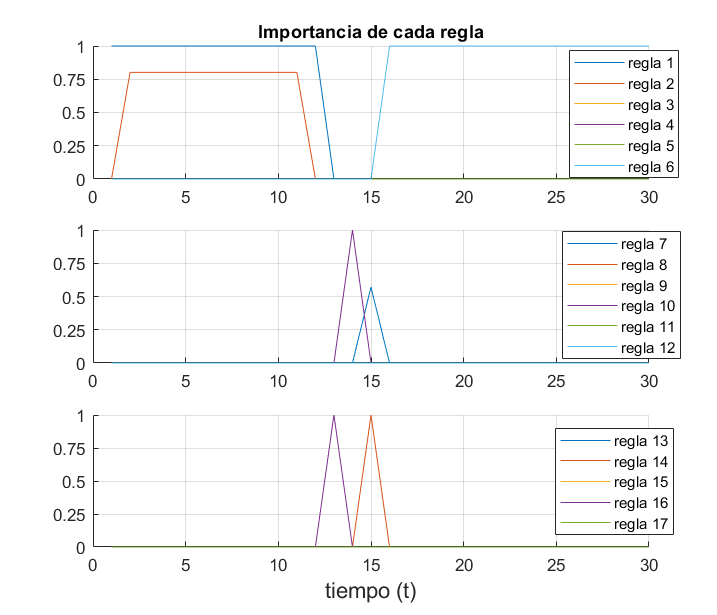
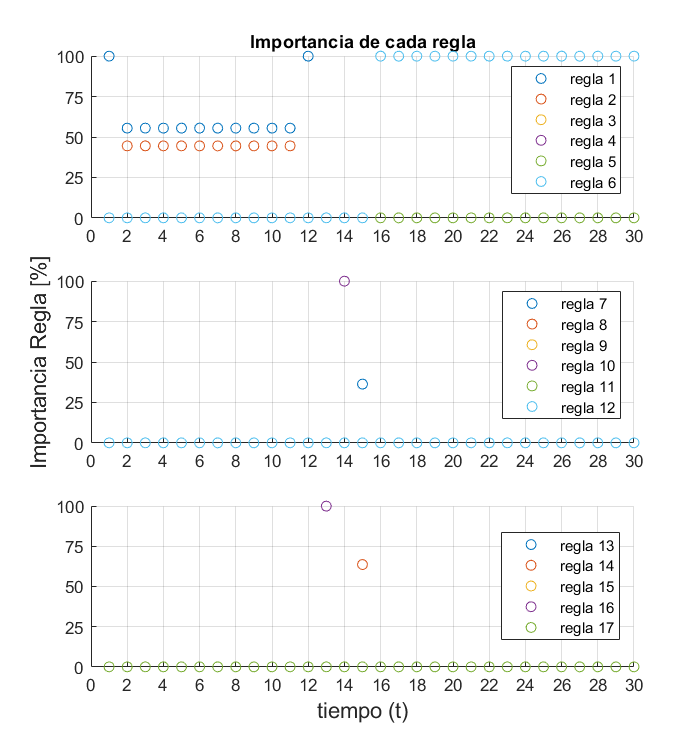
Modificación conjuntos difusos

diff --git a/funciones/inferencia2.m b/funciones/inferencia2.m
@@ -1,0 +1,47 @@
+function [output,reglas_activadas] = inferencia2(x1,x2)
+%% valores difusos
+ng = [-1.0 -1.0 -0.7 -0.55];
+nm = [-0.8 -0.65 -0.35 -0.1];
+np = [-0.4 -0.3 -0.2 -0.1];
+ni = [-0.2 -0.1 0.0 0.0];
+ce = [-0.25 0 0 0.25];
+pi = [0.0 0.0 0.1 0.2];
+pp = [0.1 0.2 0.3 0.4];
+pm = [0.1 0.35 0.65 0.8];
+pg = [0.55 0.7 1.0 1.0];
+
+%% de_a's
+ng_nm = de_a(ng,nm);
+ng_np = de_a(ng,np); 
+ng_pp = de_a(ng,pp);
+np_pi = de_a(np,pi);
+np_pg = de_a(np,pg);
+ni_pi = de_a(ni,pi);
+ni_pp = de_a(ni,pp);
+pp_pg = de_a(pp,pg);
+pm_pg = de_a(pm,pg);
+
+%% Conjunto de Reglas
+E1 =[ng; ng_nm; np; ni; ni; ni_pi; pi; pi; pp; pm_pg; pg; ni; ni; pi; ...
+    pi; ng_np; pp_pg]; %Error de presion (EP)
+E2 = [ng_pp; ng_np; np_pi; ng_nm; pm_pg; ce; ng_nm; pm_pg; ni_pp; pp_pg;...
+    np_pg; pp; np; np; pp; pm_pg; ng_nm]; %Tasa cambio Error de P (TP)
+S = [pg; pm; pm; pm; np; ce; pp; nm; nm; nm; ng; ce; pp; ce; np; pg; ng]; %Salida
+
+output=zeros(17,1000);
+reglas_activadas=zeros(1,17);
+%% Salidas
+for i=1:17
+    y1 = mu(x1,E1(i,:));
+    y2 = mu(x2,E2(i,:));
+    [~,y]= trapecio(S(i,:));
+    aux = min(y1,y2);
+    y = limitar(y,aux);
+    output(i,:) = y;
+    
+    if max(y) > 0
+        reglas_activadas(i) =+1;
+    end
+end
+end
+

diff --git a/funciones/graficar_reglas.m b/funciones/graficar_reglas.m
@@ -8,10 +8,12 @@ ax = subplot(3,1,1);
 title("Importancia de cada regla",'Fontsize',13)
 hold on
 for i=1:6
-plot(tiempo,rules(i,:));
+plot(tiempo,rules(i,:),'o');
 end
 set(gca,'Fontsize',10)
-yticks([0:0.25:1])
+yticks(0:25:100)
+ylim([-0.1 100.1])
+xticks(0:2:(length(rules(1,:))+1))
 grid()
 hold off
 legend("regla 1", "regla 2", "regla 3",...
@@ -20,10 +22,13 @@ legend("regla 1", "regla 2", "regla 3",...
 ax1=subplot(3,1,2);
 hold on
 for i=7:12
-plot(tiempo,rules(i,:));
+plot(tiempo,rules(i,:),'o');
 end
 set(gca,'Fontsize',10)
-yticks([0:0.25:1])
+yticks(0:25:100)
+ylim([-0.1 100.1])
+ylabel("Importancia Regla [%]", 'Fontsize',13)
+xticks(0:2:(length(rules(1,:))+1))
 grid()
 hold off
 legend("regla 7", "regla 8", "regla 9",...
@@ -32,10 +37,12 @@ legend("regla 7", "regla 8", "regla 9",...
 ax2=subplot(3,1,3);
 hold on
 for i=13:17
-plot(tiempo,rules(i,:));
+plot(tiempo,rules(i,:),'o');
 end
 set(gca,'Fontsize',10)
-yticks([0:0.25:1])
+yticks(0:25:100)
+ylim([-0.1 100.1])
+xticks(0:2:(length(rules(1,:))+1))
 xlabel("tiempo (t)",'Fontsize',13)
 grid()
 hold off

diff --git a/funciones/plot_conjuntos.m b/funciones/plot_conjuntos.m
@@ -1,0 +1,17 @@
+function [] = plot_conjuntos(Conjuntos,n)
+%UNTITLED13 Summary of this function goes here
+%   Detailed explanation goes here
+[a,~] = size(Conjuntos);
+figure(n)
+hold on
+for i=1:a
+   [x,y] = trapecio(Conjuntos(i,:));
+   plot(x,y)
+end
+ylabel("Grado de pertenencia", 'Fontsize',12)
+xlabel("Entrada", 'Fontsize',12)
+title("Conjuntos difusos", 'Fontsize',13)
+grid()
+legend("ng", "nm", "np", "ni", "ce", "pi", "pp", "pm", "pg")
+end
+

diff --git a/funciones/importancia_reglas.m b/funciones/importancia_reglas.m
@@ -4,13 +4,12 @@ function [output] = importancia_reglas(salidas)
     [n_reglas, puntos] = size(salidas);
     x = linspace(-1,1,puntos);
     output = zeros(n_reglas,1);
+    A_t=0;
     for regla=1:n_reglas
         A = area(salidas(regla,:),x);
         output(regla) = A;
-    end
-   
-    if max(output) > 0
-        output = output/max(output);
-    end
+        A_t = A_t + A;
+    end   
+    output = output*100/A_t;
 end
 
